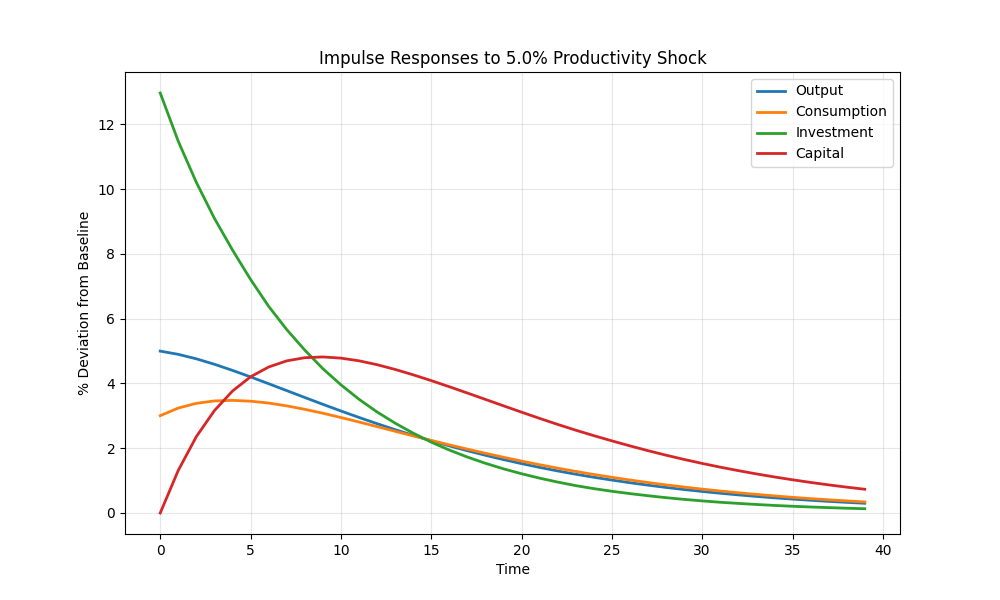
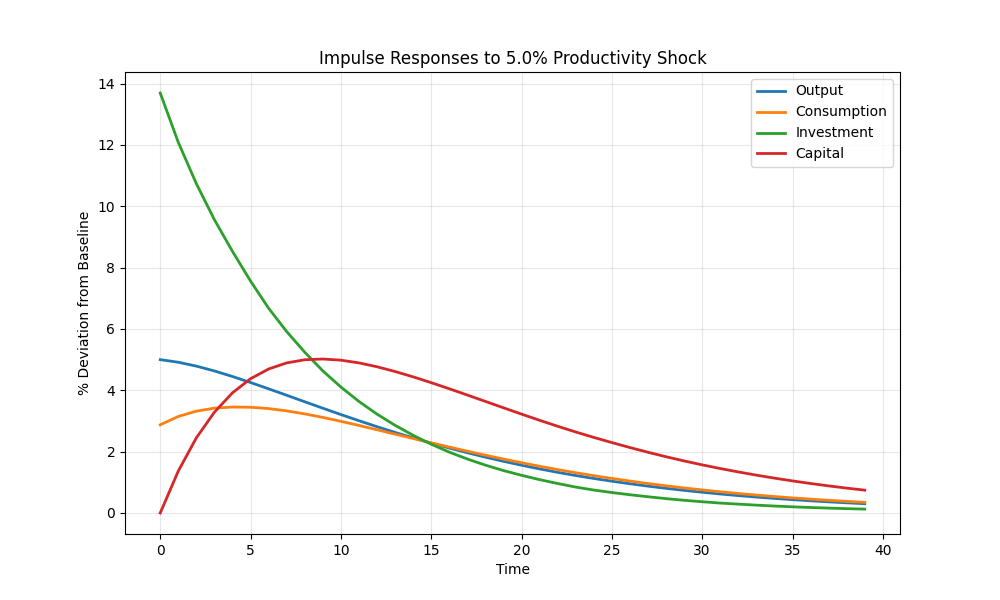
Increased training length and added clamp to .jl

diff --git a/neural_net.py b/neural_net.py
@@ -93,7 +93,7 @@ class RBCSolver:
         
         # Quadrature nodes (Hermite-Gauss)
         # 5 nodes
-        self.n_quad = 3
+        self.n_quad = 7
         nodes, weights = np.polynomial.hermite.hermgauss(self.n_quad)
         # Transform from e^(-x^2) to N(0,1)
         # nodes = sqrt(2) * x_i
@@ -586,7 +586,7 @@ def main():
     solver = RBCSolver(params, device=device)
     
     # Train
-    losses = solver.train(batch_size=2048, epochs=20000) 
+    losses = solver.train(batch_size=2048, epochs=40000) 
     
     # Plot Loss
     plt.figure()
